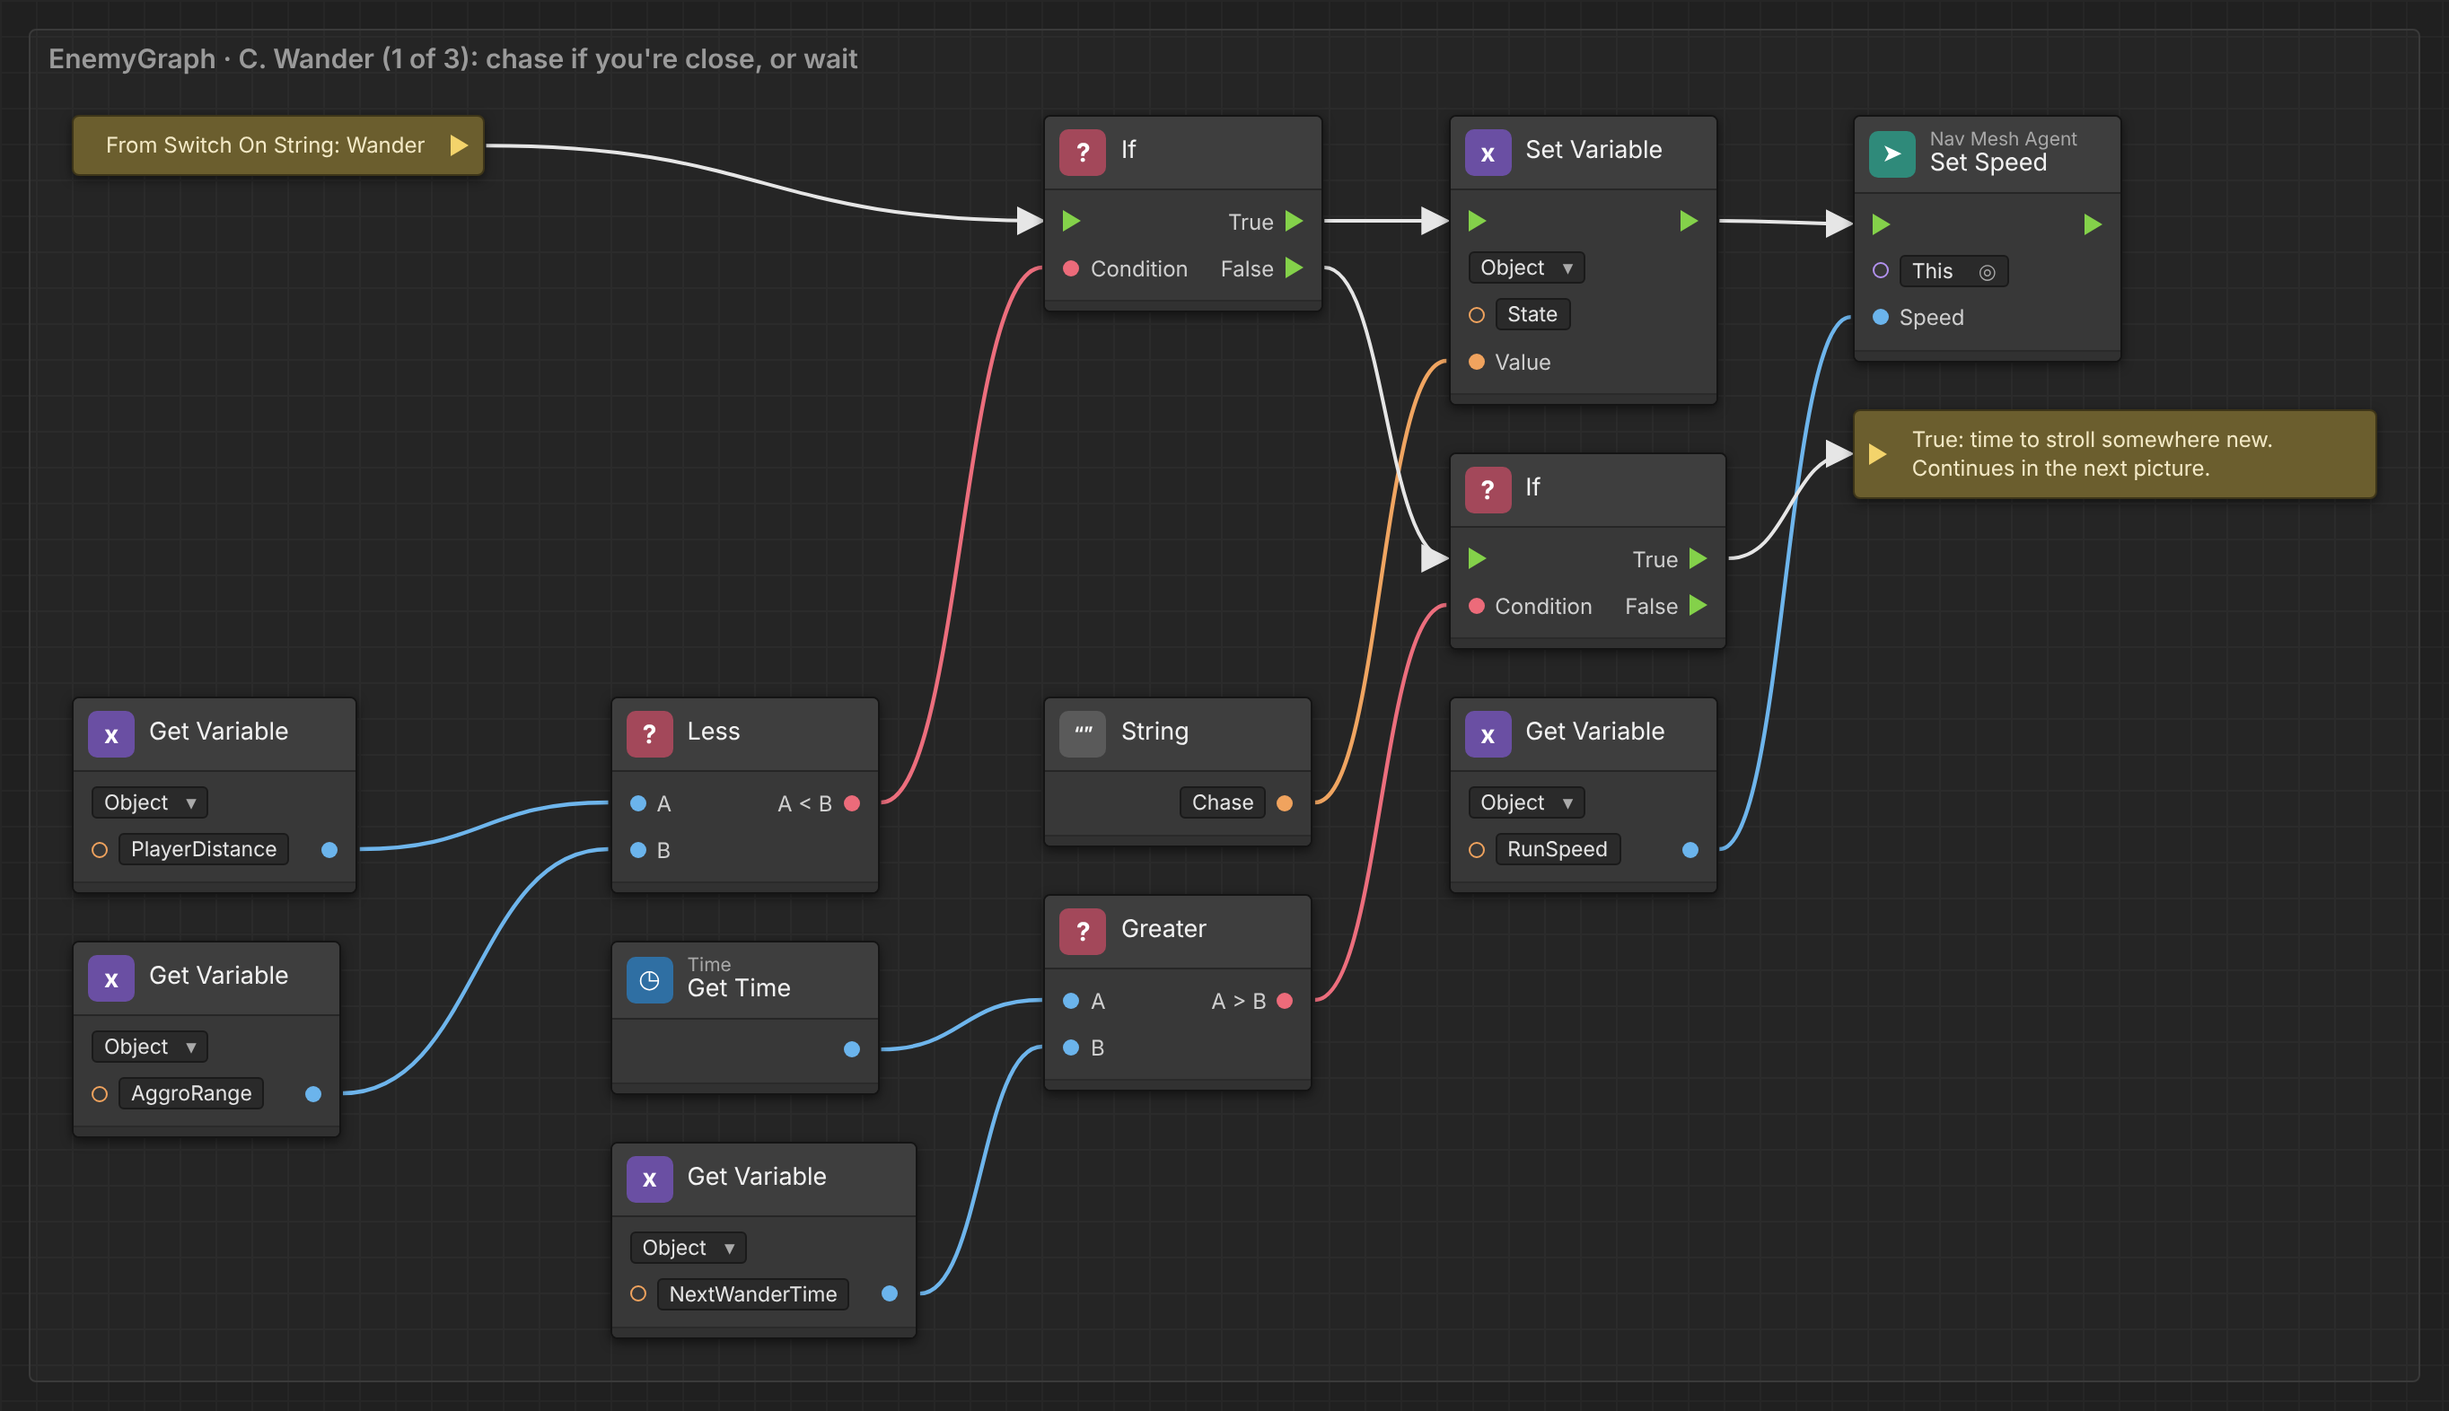
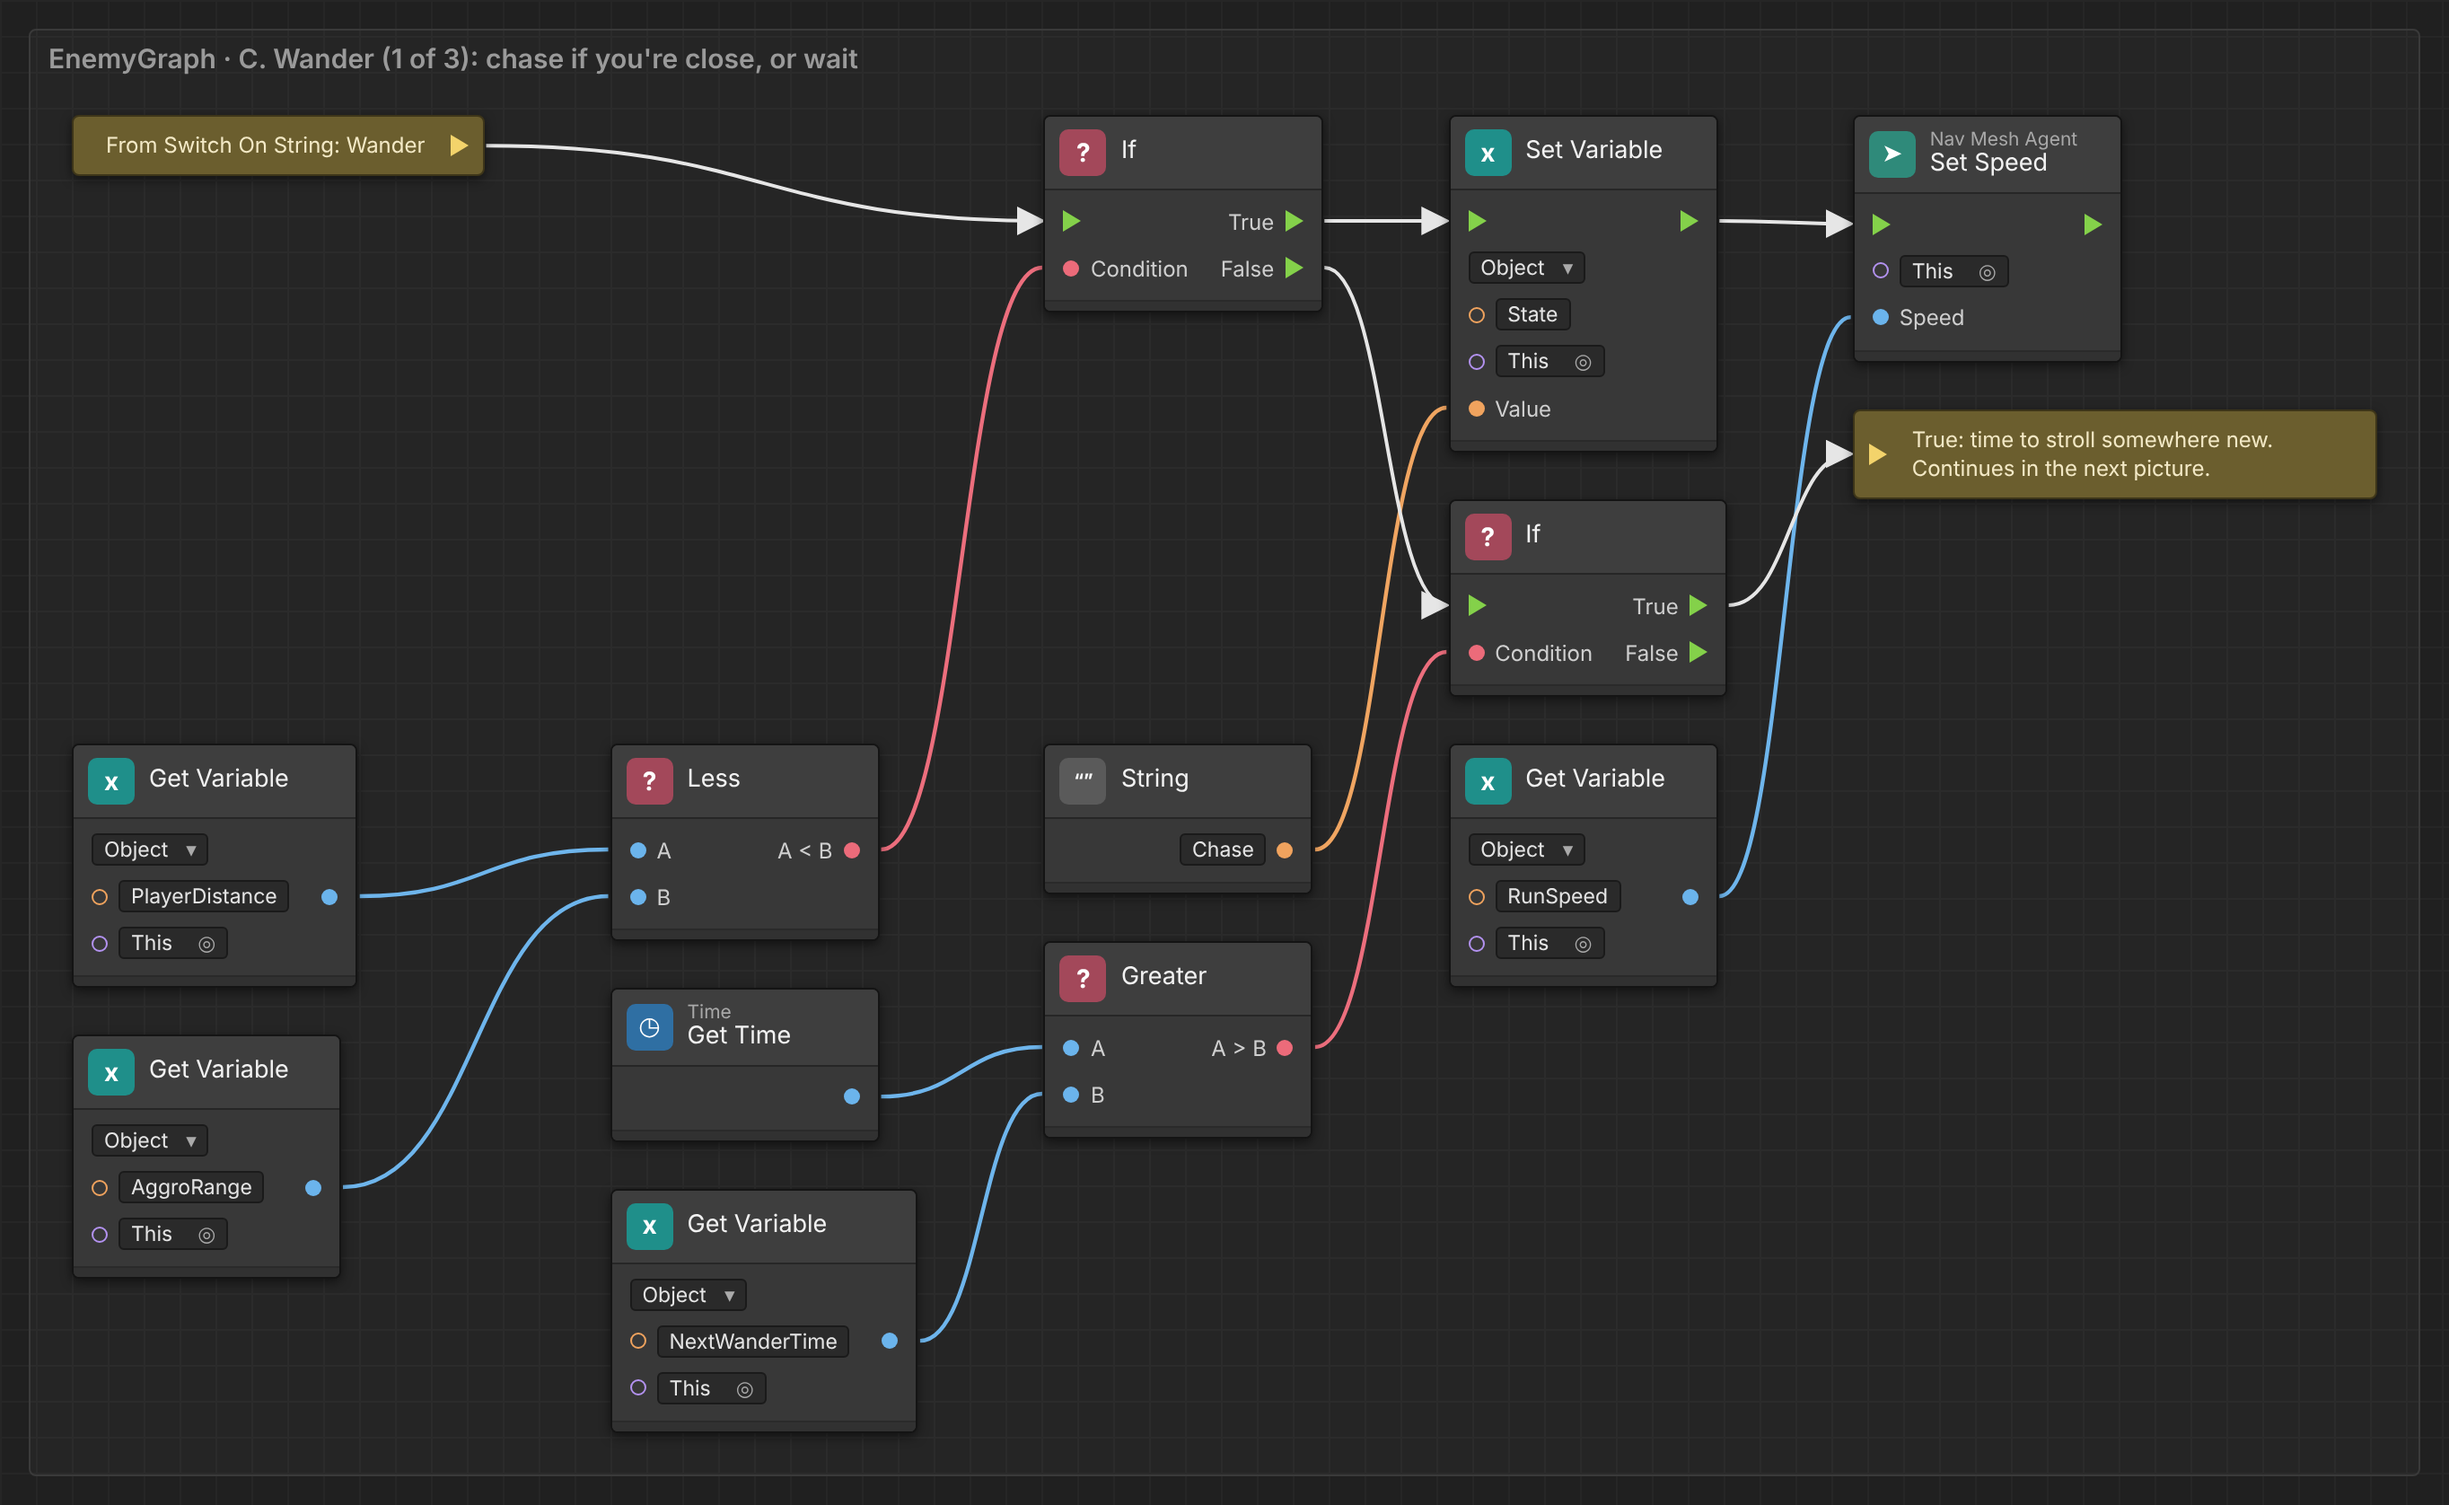
Guide: check against Unity's manuals and fix what they turned up
Checked against the Visual Scripting 1.9, AI Navigation 2.0 and Unity
6000.3 manuals and scripting reference:
- Return to Idle with Animator: Play ("Base Layer.Idle", layer -1), the
  documented way; Rebind is documented only for hierarchy changes.
- Render Pipeline Converter: correct button names (Initialize Converters,
  Convert Assets), untick Rendering Settings, back up first.
- Variables: Variables > Object > Get/Set Object Variable, the GameObject
  (This) box, Alt-drag for a Set node; pictures now show the This box and
  Unity's teal variable colour.
- Default state wording, Trigger Custom Event location, Bake Into Pose
  fix for drifting walks, Expose fallback, NavMesh re-bake wording.
- Adds a "where this guide's facts come from" section.

Confirmed by the manuals: kinematic bodies ignore joints (sword fix),
trigger messages between the blade and the enemy's hitbox, Coroutine for
wait nodes, Switch On String options, trigger parameters staying set
until used (Reset Trigger fix), model import settings.

Claude-Session: https://claude.ai/code/session_011fRxcoanufUczCyxNcpNPN

diff --git a/docs/unity-first-scene.md b/docs/unity-first-scene.md
@@ -157,11 +157,11 @@ current terms before you use it.
 ### 1B.5 Fixing common import problems
 | Problem | Fix |
 |---|---|
-| Model is **pink** | The pack was made for the Built-in pipeline. **Window → Rendering → Render Pipeline Converter** → choose **Built-in to URP** → tick **Material Upgrade** → **Initialize And Convert**. If some stay pink: select the material → **Shader** → **Universal Render Pipeline → Lit**, then put the texture back in **Base Map** |
+| Model is **pink** | The pack was made for the Built-in pipeline. **Back up your project first** (the conversion can't be undone). **Window → Rendering → Render Pipeline Converter** → choose **Built-In Render Pipeline to URP** → tick only **Material Upgrade** (untick **Rendering Settings**: your project is already URP) → **Initialize Converters** → **Convert Assets**. If some stay pink: select the material → **Shader** → **Universal Render Pipeline → Lit**, then put the texture back in **Base Map** |
 | Clips **don't play** in the Animator / Animator says "Legacy" | Select the model FBX → Inspector → **Rig** tab → **Animation Type**: **Humanoid** (for two-legged, human-shaped characters) or **Generic** (anything else) → **Apply**. Legacy clips don't work with an Animator Controller |
 | Animations in **separate FBX files** play wrong or not at all | Select each animation FBX → **Rig** tab → same Animation Type as the character. For Humanoid: **Avatar Definition: Copy From Other Avatar** → pick the character's avatar → **Apply** |
 | **Walk/idle stops** after one cycle | Select the clip (or its FBX → **Animation** tab → the clip) → tick **Loop Time** (and **Loop Pose**) → **Apply**. Only idle and walk loop; attack, hit and death don't |
-| Enemy **walks away from its own position** while animating | The walk has root motion. Use an **In Place** version if the pack has one; otherwise keep **Apply Root Motion** unticked on the Animator (4.4 step 6) |
+| Enemy **walks away from its own position** while animating | The walk has root motion. Use an **In Place** version if the pack has one; otherwise keep **Apply Root Motion** unticked on the Animator (4.4 step 6). If the model still drifts or snaps back each loop: select the clip → **Animation** tab → **Root Transform Position (XZ)** → tick **Bake Into Pose** → **Apply** |
 | Model is **lying down** or facing backwards | Rotate the `Model` child (not the `Enemy` root) until it stands up and faces **+Z** |
 
 ### 1B.6 Record what you picked
@@ -211,8 +211,9 @@ knows):
    enemy can walk. If you add obstacles later (rocks, walls, the table in
    3.1), click **Bake** again. **Before re-baking once the enemy exists**, set
    the NavMeshSurface's **Include Layers** to leave out **UserLayer9**
-   (the enemy's layer, Part 4); otherwise the enemy cuts a hole in its own
-   walkable area.
+   (the enemy's layer, Part 4). Baking skips the object with the Nav Mesh
+   Agent, but its model is a child object and could still cut a hole in the
+   walkable area around itself.
 
 ---
 
@@ -305,7 +306,9 @@ parameters**, so any pack works the same way once its clips are mapped.
    Animator window: **Idle**, **Walk** (or Run), **Attack**, **Hit**,
    **Death**. Rename each state to those names (select it → name at the top of
    the Inspector), so the table below matches whatever your pack called them.
-   - Right-click **Idle** → **Set as Layer Default State** (it turns orange).
+   - Right-click **Idle** → **Set as Layer Default State** (Unity's manual
+     calls it **Set As Default**). The default state is shown in
+     orange-brown.
 5. Make the transitions (right-click a state → **Make Transition** → click the
    target state). Select each arrow and set it up in the Inspector:
 
@@ -395,10 +398,13 @@ left edge. Try it in the Inspector, then set it back to `1, 1, 1`.
 - **Wires:** drag from an output port (right side) to an input port (left
   side). **Green arrows** are the order things happen in ("flow"); other
   colours carry values (numbers, positions, objects).
-- **Variables:** in the fuzzy finder, type **Get Variable** or **Set
-  Variable**, then pick **Object** as the kind and type the variable's name in
-  the node's text box. (Shortcut: drag a variable from the **Blackboard**
-  panel → Object tab, onto the graph.)
+- **Variables:** in the fuzzy finder, open **Variables → Object** and pick
+  **Get Object Variable** or **Set Object Variable**. Type the variable's
+  name in the node's name box (or pick it from the dropdown). Object variable
+  nodes also have a GameObject box: leave it on **This**. (Shortcut: drag a
+  variable from the **Blackboard** panel's **Object** tab onto the graph to
+  make a Get node; hold **Alt** while dropping to make a Set node.) Variable
+  nodes are teal.
 - **Numbers on ports:** click an unconnected input port's box to type a value.
 - **Words and numbers with no box:** some ports (like **Set Variable**'s
   Value, or **Equal**'s A and B) have no box to type into. Add a small
@@ -407,6 +413,9 @@ left edge. Try it in the Inspector, then set it back to `1, 1, 1`.
   **Literal**. Type the value in it and wire it in.
 - **Comparing words:** if an **Equal** or **Not Equal** node shows number
   boxes on A and B, select it and untick **Numeric** in the Graph Inspector.
+- **Expose** (splits a position into X, Y, Z): if you can't find it, use
+  **Vector 3: Get X**, **Get Y** and **Get Z** nodes instead. They do the
+  same job.
 - **Save** with Ctrl+S.
 
 **Pictures:** every graph below has a picture drawn in the style of Unity's
@@ -433,7 +442,9 @@ Delete the default **On Start** / **On Update** nodes if you don't need them.
 
 **B. On start: fill up**
 1. **On Start** → **Set Variable** `Health` (value: Get Variable `MaxHealth`)
-   → **Trigger Custom Event** (name `UpdateHud`, target: **This**).
+   → **Trigger Custom Event** (under **Events**, right below Custom Event;
+   name `UpdateHud`, target: **This**). The name must match exactly,
+   including capitals.
 
 ![GameManagerGraph B: On Start sets Health to MaxHealth, then triggers UpdateHud](images/unity-graphs/5-4-b-on-start.png)
 
@@ -671,11 +682,13 @@ enough, the enemy is alive, and 2 s have passed since the last hit.
 
 12. → **Game Object: Set Active** (`Model`) = true → (`HealthBar`) = true →
     **Capsule Collider: Set Enabled** = true.
-13. → **Animator: Rebind** (target `Anim`) (back to Idle, out of the death
-    pose).
+13. → **Animator: Play** (target `Anim`), the version with **State Name** and
+    **Layer**: State Name `Base Layer.Idle`, Layer `-1`. This jumps straight
+    back to Idle, out of the death pose. (Use your state's exact name if it
+    isn't `Idle`.)
 14. → **Set Variable** `State` = `Wander`.
 
-![Dying, part 4: show the model and bar, turn the hitbox on, reset the Animator, wander](images/unity-graphs/6-6-d-come-back.png)
+![Dying, part 4: show the model and bar, turn the hitbox on, jump back to Idle, wander](images/unity-graphs/6-6-d-come-back.png)
 
 ### 6.7 Part F: when you die, it goes home
 1. **On Global Event**, name `PlayerDied`, Arguments `0`.
@@ -738,6 +751,7 @@ Add **Debug: Log** nodes to print values to the Console.
 | Enemy doesn't move | NavMesh baked? (blue overlay on the ground.) Enemy placed on the blue area? Graph saved? A hole in the blue around the enemy: re-bake without **UserLayer9** (2.3) |
 | Can't pick up the sword, or it won't move | `Sword`'s Rigidbody **Is Kinematic** must be off (3.1). The `Grip` must still have its collider and **BS Grab Handle** |
 | Dead enemy jumps up again | Part E step 4: reset the `Hit` and `Attack` triggers before `Die`. In the Animator, the Death state must have no transitions out |
+| Comes back to life still lying down | Part E step 13: **Animator: Play** needs the exact state name, with the layer in front: `Base Layer.Idle` |
 | Enemy slides without animating | `Anim` variable points at the `Model`'s Animator? Parameter named exactly `Speed`? |
 | Enemy floats or sinks | Change the NavMeshAgent's **Base Offset**, or the `Model` child's Y position |
 | Sword hits never register | `Blade` has **Is Trigger** on, Tag **UserTag1**, and is a child of `Sword` (which has the Rigidbody)? Enemy's Capsule Collider **Is Trigger** on? Try moving `Blade` to the **Default** layer |
@@ -765,6 +779,24 @@ Add **Debug: Log** nodes to print values to the Console.
    Goblin…), and turn the Enemy into a **prefab** so you can place many.
 
 ---
+
+## Where this guide's facts come from
+
+Checked against:
+- **Altspace SDK documentation** (altvr.app/docs) and the **SDK's source code**
+  (SideQuestVR/BanterSDK on GitHub): the BS nodes and components, and the
+  Visual Scripting allow list (every Unity node used here is on it).
+- **Unity Visual Scripting 1.9 manual** (the version the SDK uses): event,
+  variable, custom event, switch, logic and wait nodes.
+- **AI Navigation 2.0 manual**: NavMesh Surface and Nav Mesh Agent.
+- **Unity 6000.3 manual and scripting reference**: Animator transitions and
+  parameters, model import (Rig, Animation and Model tabs), Rigidbody
+  (kinematic bodies, velocity), trigger messages, and the Render Pipeline
+  Converter.
+
+Not covered by those manuals, so worth a second look if Unity shows
+something different: the exact fuzzy-finder wording for literal nodes, the
+**Equal** node's Numeric option, and the **Expose** node (fallback above).
 
 ## About the graph pictures
 
